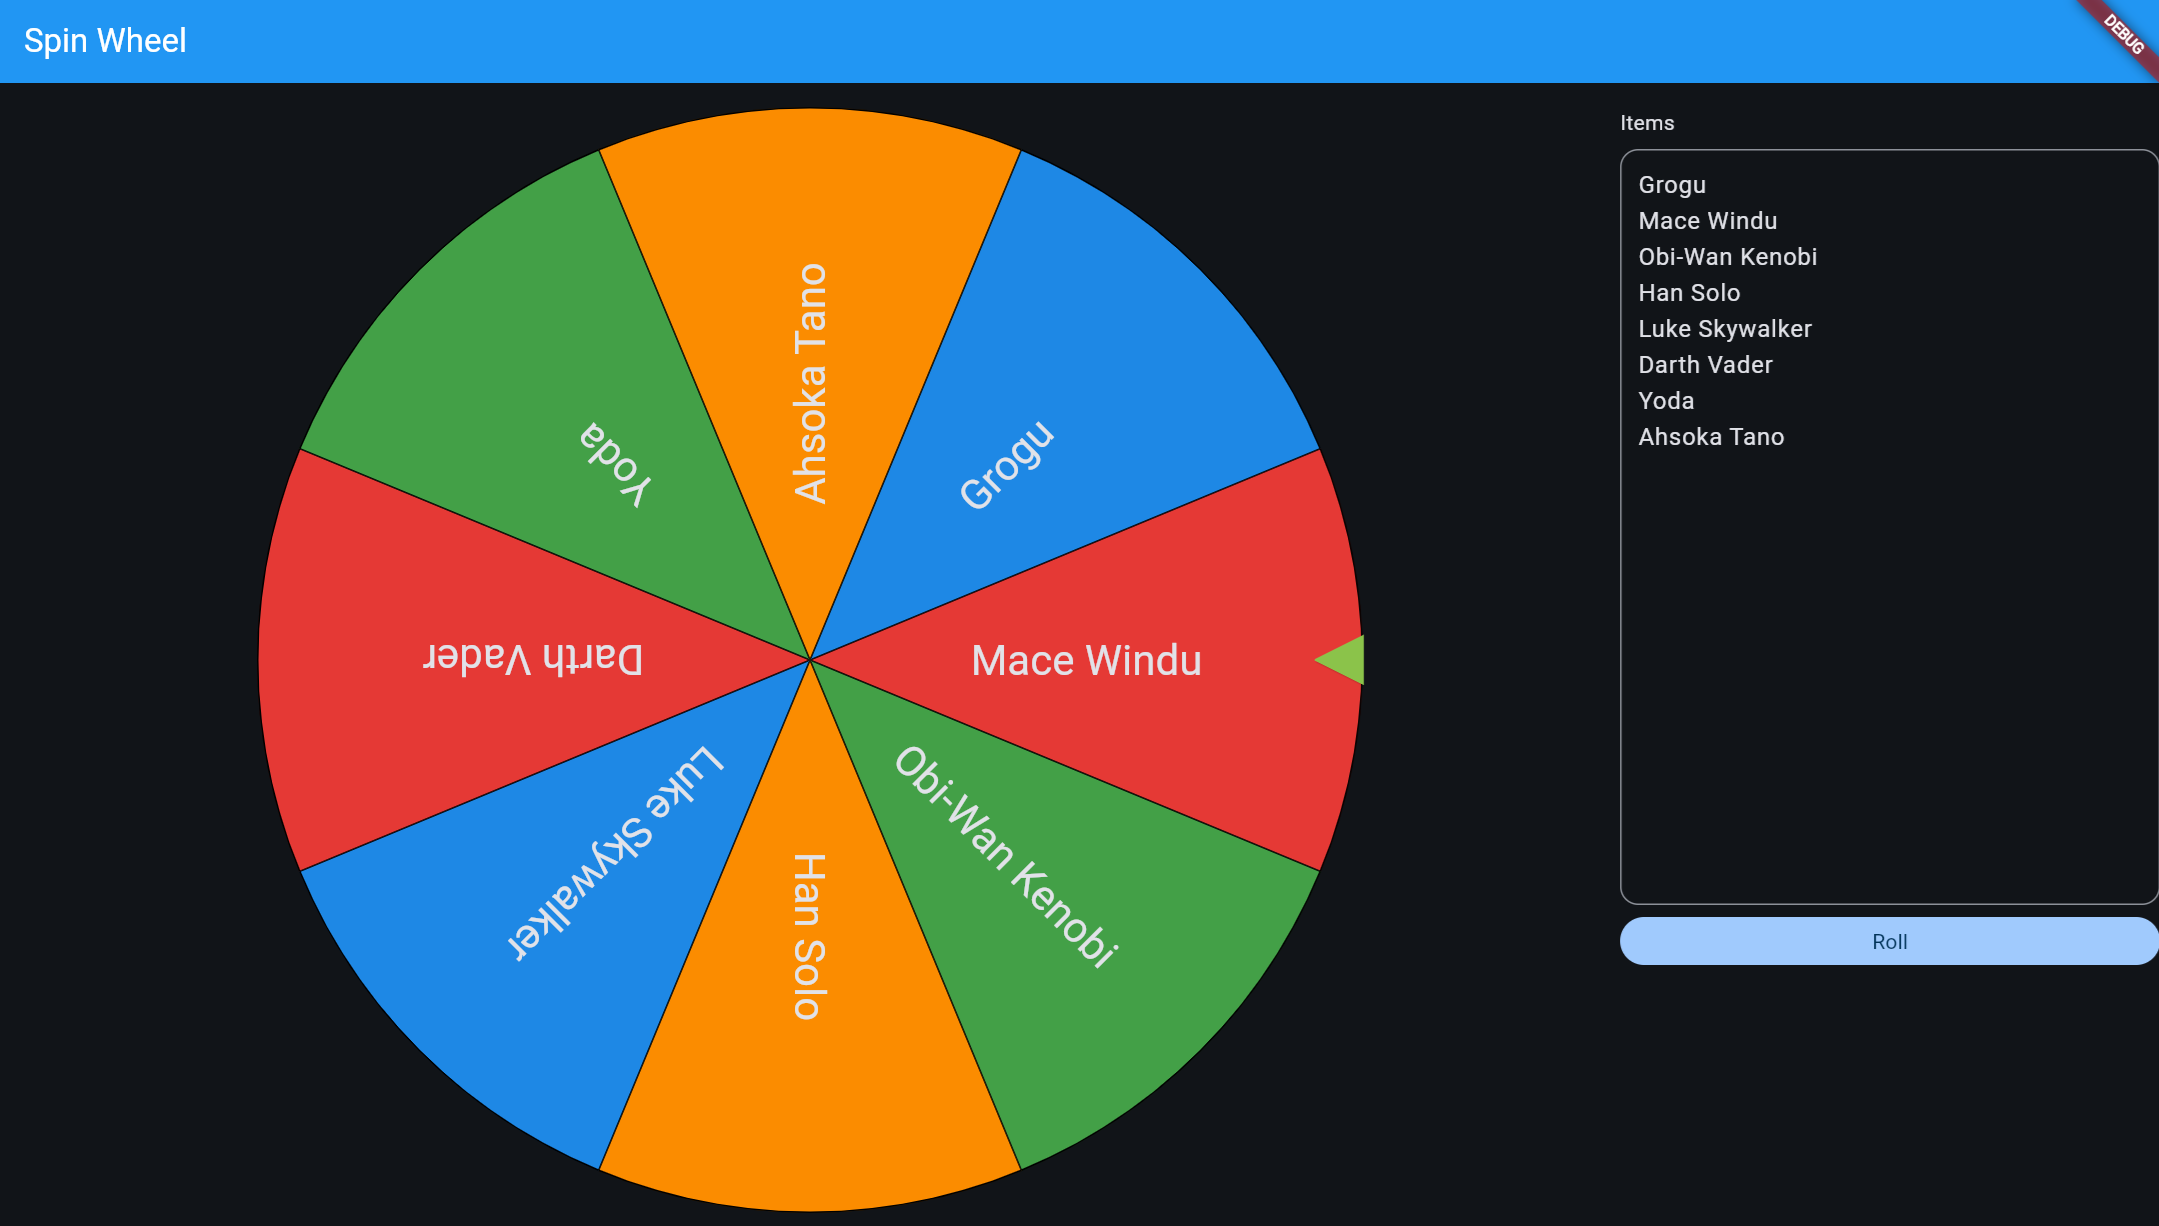
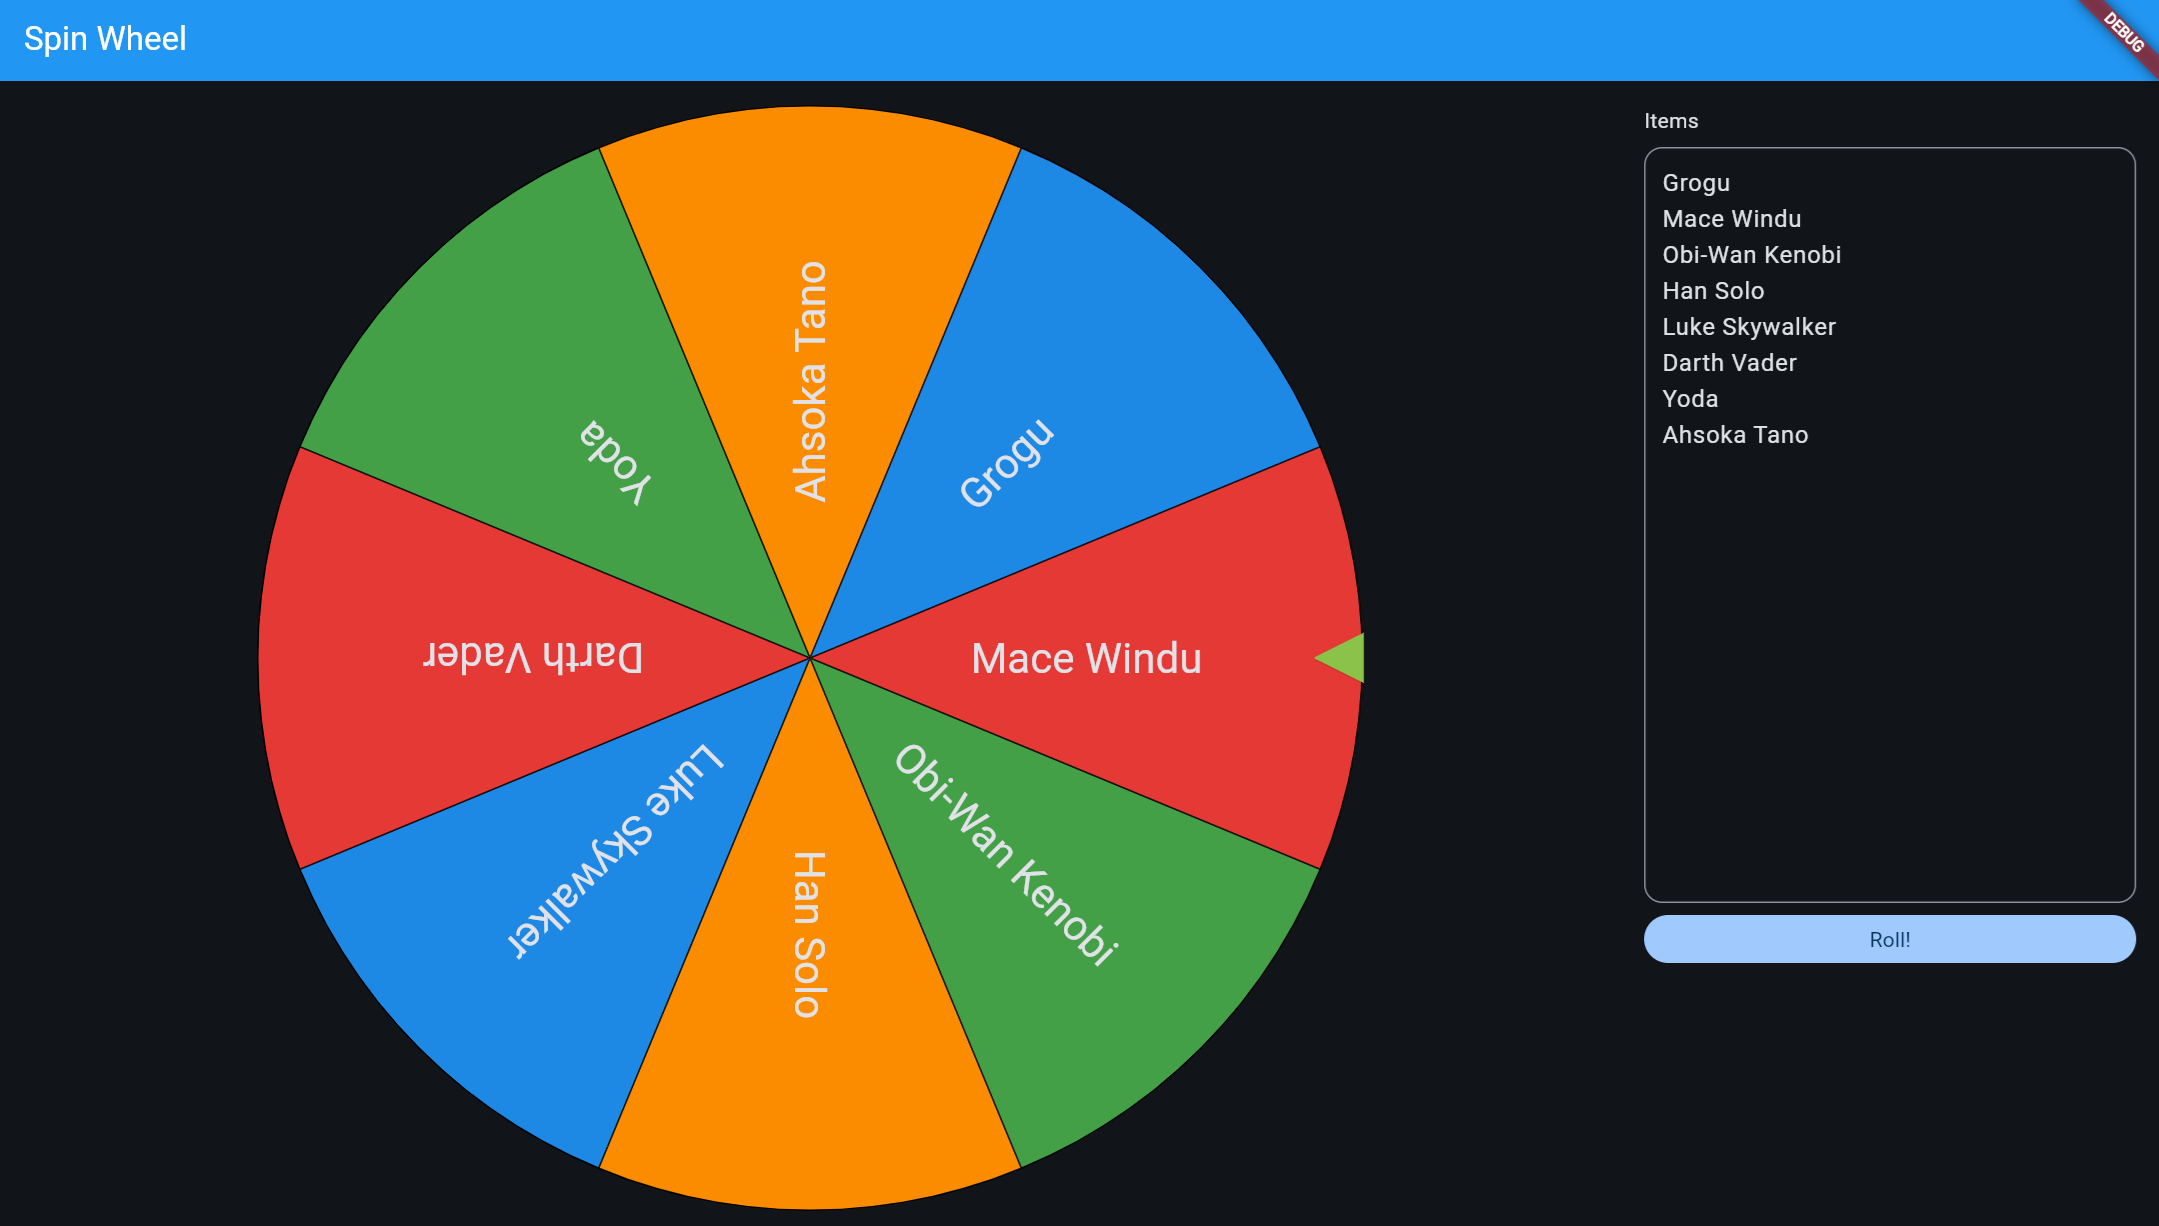
update ui and readme

diff --git a/lib/app/modules/home/views/home_view.dart b/lib/app/modules/home/views/home_view.dart
@@ -58,39 +58,41 @@ class HomeView extends GetView<HomeController> {
             ),
             Flexible(
               flex: 1,
-              child: Column(
-                crossAxisAlignment: CrossAxisAlignment.start,
-                children: [
-                  const Gap(16.0),
-                  const Text('Items'),
-                  const Gap(8.0),
-                  TextFormField(
-                    controller: controller.itemController,
-                    decoration: InputDecoration(
-                      border: OutlineInputBorder(
-                        borderRadius: BorderRadius.circular(12.0),
+              child: Padding(
+                padding: const EdgeInsets.all(16.0),
+                child: Column(
+                  crossAxisAlignment: CrossAxisAlignment.start,
+                  children: [
+                    const Text('Items'),
+                    const Gap(8.0),
+                    TextFormField(
+                      controller: controller.itemController,
+                      decoration: InputDecoration(
+                        border: OutlineInputBorder(
+                          borderRadius: BorderRadius.circular(12.0),
+                        ),
                       ),
+                      maxLines: 20,
                     ),
-                    maxLines: 20,
-                  ),
-                  const Gap(8.0),
-                  LayoutBuilder(builder: (context, constraints) {
-                    return SizedBox(
-                      width: constraints.maxWidth,
-                      child: FilledButton(
-                        onPressed: () {
-                          controller.setItems(controller.itemController.text);
-                          controller.controller.addStream(
-                            Stream.value(
-                              Random().nextInt(controller.items.length),
-                            ),
-                          );
-                        },
-                        child: const Text('Roll'),
-                      ),
-                    );
-                  })
-                ],
+                    const Gap(8.0),
+                    LayoutBuilder(builder: (context, constraints) {
+                      return SizedBox(
+                        width: constraints.maxWidth,
+                        child: FilledButton(
+                          onPressed: () {
+                            controller.setItems(controller.itemController.text);
+                            controller.controller.addStream(
+                              Stream.value(
+                                Random().nextInt(controller.items.length),
+                              ),
+                            );
+                          },
+                          child: const Text('Roll!'),
+                        ),
+                      );
+                    })
+                  ],
+                ),
               ),
             ),
           ],

diff --git a/README.md b/README.md
@@ -1,16 +1,7 @@
-# spinwheel
+# Spin Wheel
 
-A new Flutter project.
+A spin wheel
 
-## Getting Started
+## Screenshots
 
-This project is a starting point for a Flutter application.
-
-A few resources to get you started if this is your first Flutter project:
-
-- [Lab: Write your first Flutter app](https://docs.flutter.dev/get-started/codelab)
-- [Cookbook: Useful Flutter samples](https://docs.flutter.dev/cookbook)
-
-For help getting started with Flutter development, view the
-[online documentation](https://docs.flutter.dev/), which offers tutorials,
-samples, guidance on mobile development, and a full API reference.
+![](/screenshots/screenshot01.png)
